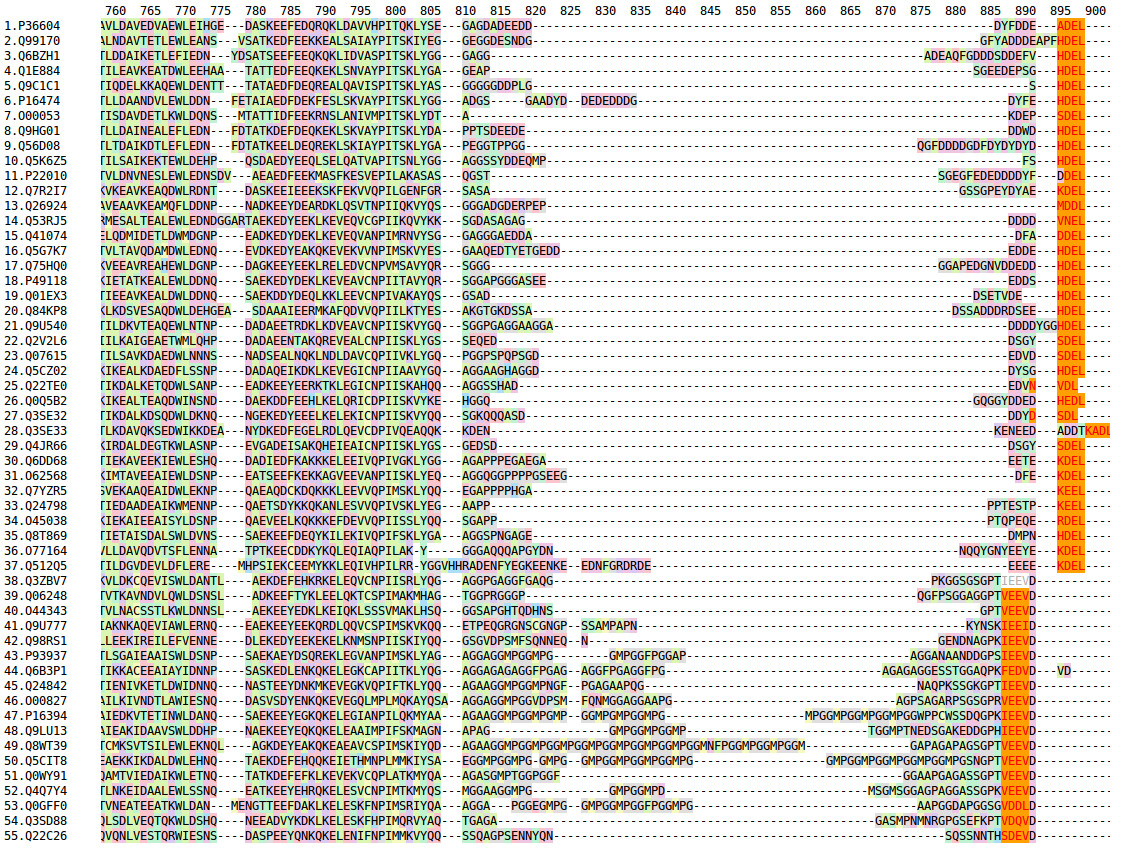
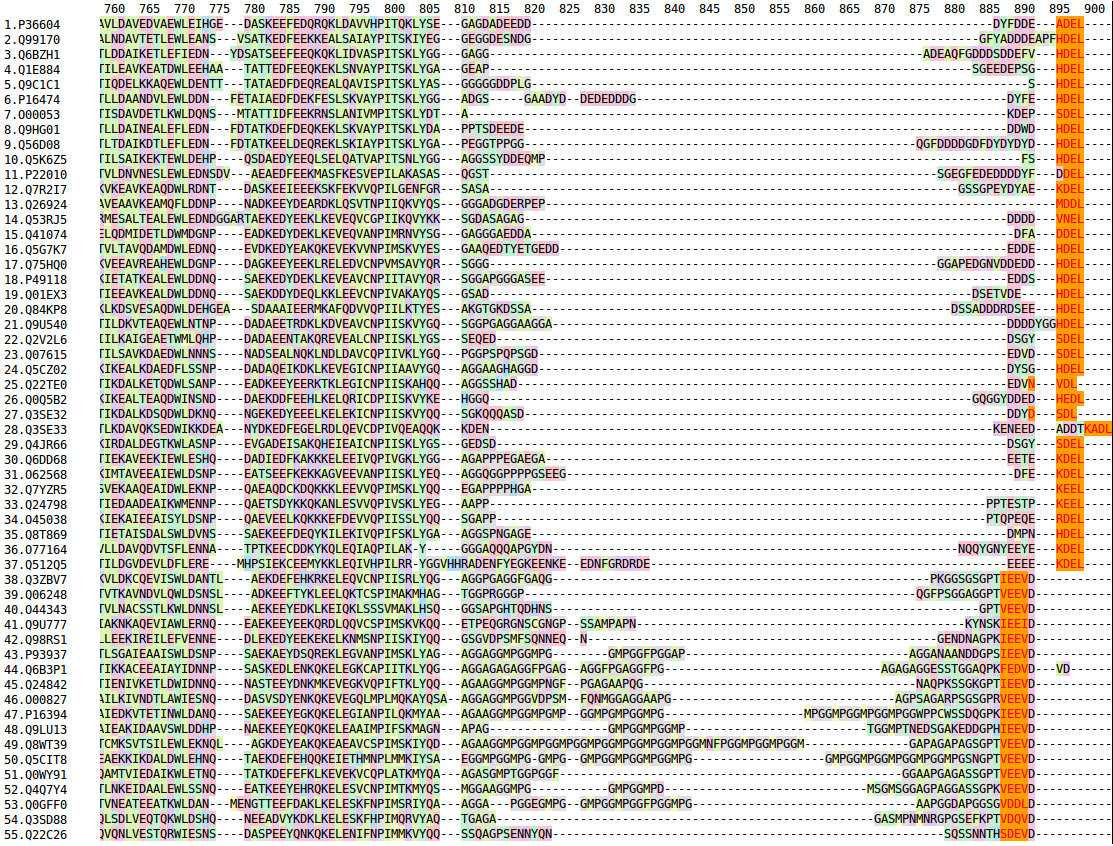
balibase, more corrections

diff --git a/kmad_web/frontend/templates/dashboard/balibase.html b/kmad_web/frontend/templates/dashboard/balibase.html
@@ -195,16 +195,23 @@ BAliBASE questions
         <div class="row">
           <div class="col-xs-12 col-md-6">
             <p align="justify">
-            <span style="background-color:#90EE90">
-
-            There is no structure available for any of the sequences 
-            from this alignment.
-            </span>
-            <span style="background-color:yellow">
-            For 
-              any
-              the sequences from this alignment there isn't any structure available.
-            </span>
+            Each alignment in BAliBASE has been based on structure information
+            ("We present here the latest release of the
+            most widely used multiple alignment benchmark,
+            BAliBASE, which provides high quality, manually
+            refined, reference alignments based on 3D structural 
+            superpositions", "Those protein families for
+            which at least four structures are available are included
+            in the V1 subset of Reference 1", "Because divergent sequences 
+            cannot be aligned accurately without using structural information
+            as a guide, Uniprot sequences of unknown structure are only 
+            included in the alignment if they share &lt;40% identity with at 
+            least
+            one PDB sequence." - Thompson JD, et al., BAliBASE 3.0: latest developments of the multiple sequence alignment benchmark., Proteins, 2005). This, obviously,
+            makes it hard for us to use BAliBASE for the validation of KMAD because
+            KMAD was designed to align the sequences of intrinsically disordered
+            proteins (IDPs). For BB11037, though, we cannot find any structure
+            information for any of the proteins aligned.
             The closest structure was found for the 4th sequence 
             (PDB ID:1CLD, chain A),
             with a very high e-value of 3&middot;10<sup>-4</sup>. And even this structure doesn't
@@ -294,12 +301,22 @@ BAliBASE questions
             SAP decides that there is a deletion of the glutamine at position
             52, but BAliBASE overrules the structure alignment and inserts the
             gap below a glycine, two residues to the right.
-            Manual inspection of a WHATIF structure alignment leads us to a
-            conclusion that, unless more knowledge is available about these
-            residues, the SAP alignment is correct, and not BAliBASE.
 
-            <a href="{{ url_for('dashboard.yasara_example') }}">Click here</a>
-            to see the WHATIF structure alignment.
+
+             We used WHAT IF to structurally superpose the 1abc and 2pqr structures,
+             and visually inspected the result using the YASARA Twinset (the
+             view is available
+              <a href="{{ url_for('dashboard.yasara_example') }}">here</a>)
+               This structure alignment makes clear, without any
+               doubt, the backbone of Ser53 in the 1B02 sequence structurally
+               overlaps with the backbone atoms of Gln39 and Asp40 in 1AIQ. The
+               sidechain of Ser53 in 1B02, though partly occupies the space of
+               Asp40 in 1AIQ so that Gln39 must be aligned with a deletion.
+               Obviously, knowledge about the biological role of residues in this
+               three-dimensional environment can be used to overrule this gap
+               alignment, but again, we believe that bioinformatics as a whole hasn't
+               progressed yet to the state that software should be allowed to make
+               these decisions.
             <br>
             </p>
             <br>
@@ -380,23 +397,16 @@ BAliBASE questions
             explicitly designed to avoid such problems thereby optimally 
             helping the bioscientist to analyze alignments.
             <br>
-            There is no KDEL (or KDEL equivalent) motif present in 
-            the sequences other than at the very end. 
-            <span style="background-color:#90EE90">
-              Thus, the KDEL motifs that are not at the end of the sequence
-              should be backed up with some (experimental) evidence to 
-              be treated as the arbitrary truth for benchmarking purposes.
-            </span>
+            The last 17 sequences in the alignment contain a 'KDEL motif'
+            followed by at least one extra residue. So, these motifs are not
+            C-terminal as the "[KRHQSAP][DENQT]EL$" motif description dictates. KMAD
+            has no access to the information required to decide that 'VEEV' and similar indeed
+            matche the KDEL$ motif, but our alignment gets many penalty points
+            because BAliBASE considers these false negative motif scores (FNs)  in
+            the KMAD alignment.
             <br>
-            <span style="background-color:yellow">
-            Thus, the 'FN' motifs should not
-            be used as an 'arbitrary truth' for the benchmarking purposes.
-            </span>
             <br>
-            In
-            <span style="background-color:#90EE90;">
-              the 11th</span> 
-            sequence BAliBASE annotated the motif as a 
+            In the 11th sequence BAliBASE annotated the motif as a 
             3-residue segment ("DEL"), but we suppose it was not done on
             purpose.
             </p>
@@ -408,21 +418,29 @@ BAliBASE questions
         <br>
         Motif score = 0.37
         <br>
+            <div style="overflow:auto;">
             <img src="{{ url_for('static',
             filename="alignments/balibase_issues/pics/kmad_clustal_refine80.png") }}" >
+            </div>
             <br>
+            <div style="overflow:auto;">
             <img src="{{ url_for('static',
             filename="alignments/balibase_issues/pics/kmad_clustal_refine80_KDEL.png") }}" >
+            </div>
         <hr>
         <strong>Alignment 2</strong> KMAD refinement of a T-Coffee alignment
         <br>
         Motif score = 0.88
         <br>
+            <div style="overflow:auto;">
             <img src="{{ url_for('static',
             filename="alignments/balibase_issues/pics/kmad_tcof_refine77.png") }}" >
+            </div>
             <br>
+            <div style="overflow:auto;">
             <img src="{{ url_for('static',
             filename="alignments/balibase_issues/pics/kmad_tcof_refine77_KDEL.png") }}" >
+            </div>
         <hr>
         <strong>Alignment 3</strong> KMAD refinement of a T-Coffee alignment
         with very low gap penalties - only for the purpose of 

diff --git a/kmad_web/frontend/templates/dashboard/yasara_example.html b/kmad_web/frontend/templates/dashboard/yasara_example.html
@@ -14,13 +14,6 @@ Structure alignment
     Cyan backbone and blue sidechains belong to the 1B02 structure,
     and red backbone and 
     orange sidechains belong to structure 1AIQ.
-    This is a slightly ambiguous situation because Ser53 is almost halfway
-    between the Gln39 and Asn40 residues. Thus, it would be less surprising if
-    the difference between the methods was the alignment of this serine.
-    Although Gly41 and Glu54 are quite well aligned together in the
-    structured alignment,
-    BAliBASE decides that Gly41 is an insertion and aligns Glu54 with Asp40
-    instead.
     <br>
     <img src="{{ url_for('static', filename="images/1aiq_1b02.gif") }}">
     <br>
